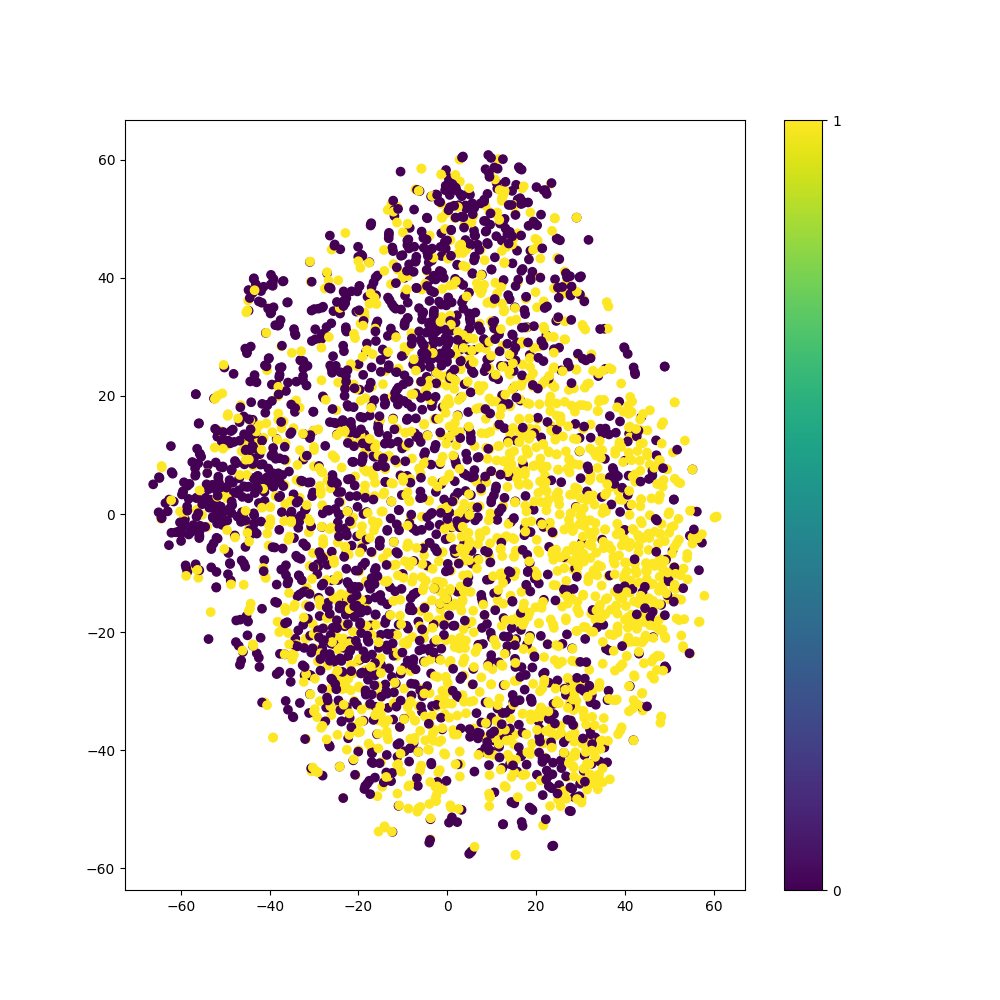
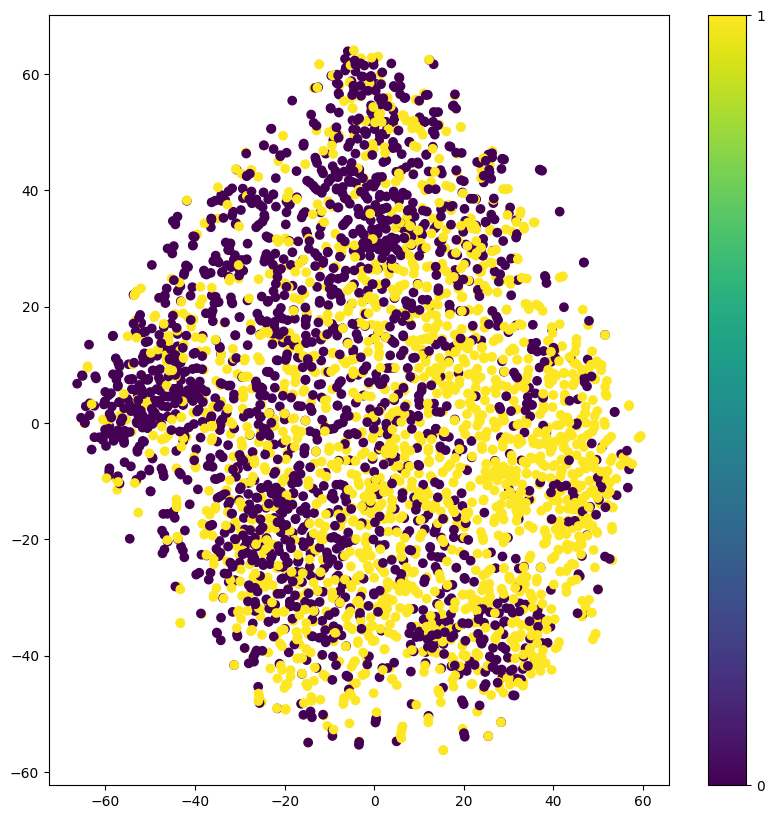
Added the correction to the report

diff --git a/latex/acl2020.tex b/latex/acl2020.tex
@@ -22,7 +22,7 @@
 \usepackage{adjustbox}
 \renewcommand{\UrlFont}{\ttfamily\small}
 \usepackage{microtype}
-
+\usepackage{pdflscape}
 \aclfinalcopy
 
 %\setlength\titlebox{5cm}
@@ -42,8 +42,8 @@
 \begin{document}
 \maketitle
 \begin{abstract}
-In this study, a machine learning approach is developed to detect and measure bias in news articles. The methodology involves fine-tuning a language model specifically for the task of bias classification. To ensure robustness, the model was trained using oversampling methods and it was tested in various random states. The model achieved an amazing precision of 100\% and 94.94\% for SG1 and SG2 datasets respectively, ultimately aiming to minimize False Positive results in classifying biases.\\
-Additionally, the model scored very high F1 scores on both datasets, ensuring the balance between precision and recall measures. The project categorizes bias into three types: distortion, content, and decision-making biases, and discusses their impact on media and democracy. The successful implementation of this project could lead to the development of tools that enable readers and journalists to better understand and check for biases, thereby contributing to a more informed and balanced public discourse.\\
+In this study, a machine learning approach is developed to detect and measure bias in news articles. The methodology involves fine-tuning a language model specifically for the task of bias classification. To ensure robustness, the model was also trained with and without oversampling method and it was tested in various random states. The model achieved a good precision of 84\% and 83\% for SG1 and SG2 datasets, respectively, ultimately aiming to minimize False Positive results in classifying biases.\\
+Additionally, the model scored high F1 scores on both datasets compared to best baselines (63\% on SG1 and 71\% on SG2), ensuring the balance between precision and recall measures. The project categorizes bias into three types: distortion, content, and decision-making biases, and discusses their impact on media and democracy. The successful implementation of this project could lead to the development of tools that enable readers and journalists to better understand and check for biases, thereby contributing to a more informed and balanced public discourse.\\
 The paper provides a comprehensive discussion of the models used, the data collected, the evaluation methods employed, and the results obtained, offering an alternative to automated bias detection in journalism.
 \end{abstract}
 
@@ -51,9 +51,9 @@ The paper provides a comprehensive discussion of the models used, the data colle
 
 In the era of information overload, the ability to discern bias in news articles is more critical than ever. This research project aims to develop an innovative, machine learning-based approach to identify and quantify bias in news articles. The proposed methodology will involve using natural language processing techniques to analyze the linguistic patterns in the text, which often indicate a certain bias. The project contains two stages which are comprised of 1- fine-tuning a language model for the classification task of labeling the news article text and 2- evaluating the model through two methodologies. 
 
-This project, if successful, has significant implications for the field of journalism. It can provide a tool for readers to better understand the biases in the news they consume, and for journalists and editors to more effectively check their work for unintentional bias. Ultimately, this could contribute to a more informed and discerning public discourse.
+This project, if successful, has significant implications for the field of journalism. It can provide a tool for readers to understand better the biases in the news they consume, and for journalists and editors to more effectively check their work for unintentional bias. Ultimately, this could contribute to a more informed and discerning public discourse.
 The next sections of this project are as follows:
-Section two provides the necessary context and theoretical foundation for the study. It includes a literature review highlighting relevant previous work in the field of news bias, particularly the studies involving automated tools for this purpose. It also outlines the motivation for this study and states the research problem and objectives. Section three details the data, preprocessing steps, and the process of fine-tuning the RoBERTa model. It also explains the implementation of a 5-fold cross-validation strategy and the application of oversampling techniques. Section four presents the outcomes of the fine-tuning process and the performance of the model on the validation set. It includes detailed analysis and interpretation of the results, supported by appropriate statistical measures and visualizations. Any patterns, relationships, or trends observed in the results are highlighted and discussed. The final section wraps up the study by summarizing the key findings and their implications. It discusses the strengths and limitations of the current study, and how these findings contribute to the existing body of knowledge.
+Section two provides the necessary context and theoretical foundation for the study. It includes a literature review highlighting relevant previous work in the field of news bias, particularly the studies involving automated tools for this purpose. It also outlines the motivation for this study and states the research problem and objectives. Section three details the data, preprocessing steps, and the process of fine-tuning the RoBERTa model. It also explains the implementation of strategies and the application of oversampling techniques. Section four presents the outcomes of the fine-tuning process and the performance of the model on the validation set. It includes detailed analysis and interpretation of the results, supported by appropriate statistical measures and visualizations. Any patterns, relationships, or trends observed in the results are highlighted and discussed. The final section wraps up the study by summarizing the key findings and their implications. It discusses the strengths and limitations of the current study, and how these findings contribute to the existing body of knowledge.
 \section{Background}
 Bias, whether intentional or unintentional, can significantly influence public opinion and discourse. Understanding the background and implications of this issue is crucial to this research. 
 Essentially Bias can be categorized in many forms~\cite{mastrine_2019_how}, including:
@@ -144,6 +144,10 @@ The Baseline models used here include:
     \item \textbf{LogisticRegression}: Logistic Regression is a statistical model that uses logistic function to model binary variables. published the news article. This method calculates the probability of belonging to a class by learning from input. As a linear model, it is an effective solution to provide a baseline prediction of classes in the model.
 \end{itemize}
 The main methodology in this project follows the implementation as in ~\cite{spinde_2021_neural}. As the classifier RoBERTa~\cite{liu_2019_roberta} was implemented. RoBERTa is a variant of BERT which was trained on more data and for a longer amount of time. This model outperforms BERT and other state-of-the-art models on a variety of natural language processing tasks~\cite{a2020_overview}. The model was trained and evaluated on a Google Colab environment in several epochs through checkpointing. The specific hardware used in this project includes a V100 VRAM 16GB GPU and The default CPU, an Intel Xeon CPU with 2 vCPUs (virtual CPUs).
+
+\subsection{Adding extra layers}
+As a transformer-based model excelling at various NLP tasks, RoBERTa can capture the complex structure of the task. During the implementation of the model, a few additional layers were added to improve the base model's performance. The aim of this step is to improve the capability of the model by improving the identification of local patterns(Conv1D) and capturing long-term dependencies(GRU). The customized model with additional layers can be observed in \ref{fig:Custom_model_arch}.
+
 \subsection{Evaluation}
 The evaluation of the model is a crucial aspect of this project, essentially providing a measure to show the goodness of the model's performance in bias identification tasks. The evaluation is divided into two subsections: 1- Traditional Evaluation Metrics and 2- Interpretive Model Evaluation.
 
@@ -181,41 +185,62 @@ If the anchors identified in these new articles are similar to those found in th
 This section presents the results of the fine-tuning process applied to the RoBERTa language model for the task of media bias classification.
 \subsection{Model Fine-tuning}
 The RoBERTa model was fine-tuned using a train-validation-test approach. This method ensures that each fold of the dataset contains an equal proportion of each targeted class, providing a robust estimate of the model’s performance.
-\subsection{Handling Class Imbalance}
-The two datasets used in this project did not exhibit class imbalance, however, after data splitting it was noted that some classes were under-represented in the data. This could lead to a model that performs well on the majority class but poorly on the minority class.
+\subsection{investigating Class Imbalance}
+The two datasets used in this project did not exhibit class imbalance, This is evident by looking at the differences between the number of classes for dataset SG1 and SG2(54 and 53 respectively).
 
-\begin{figure}[h]
+\begin{figure}[H]
     \centering
     \includegraphics[width=0.9\linewidth]{cm_SG1_cl.png}
-    \caption{confusion matrix for SG1 dataset with RoBERTa[value 1 indicate bias}
+    \caption{confusion matrix for SG1 dataset with RoBERTa after oversampling [value 1 indicate bias]}
     \label{fig:enter-label}
 \end{figure}
 
-To address this issue, an oversampling method was implemented within each fold during the training process. Oversampling involves randomly duplicating examples from the minority class in the training data to balance the class distribution. This ensures that the model is exposed to enough examples of each class during training, improving its ability to generalize to under-represented classes.
+Oversampling involves randomly duplicating examples from the minority class in the training data to balance the class distribution. Theoretically oversampling ensures the model is exposed to enough examples of each class during training, improving its ability to generalize to under-represented classes. \\
+However, due to the small difference in classes, oversampling did not manage to improve the classification and, at best managed to achieve a result similar to the original model. For the purpose of this comparison, some results are shown in \ref{tab:f1_SG_datasets}.
 
-After performing oversampling(please refer to Figure 3), the fine-tuned RoBERTa model was able to learn from a balanced representation of each class, leading to a more robust and reliable performance in the media bias classification task.
 \subsection{Traditional Evaluation Metrics}
 Considering the difference in the number of sentences within each dataset, they are analyzed separately, here is a brief summary of results from the SG1 dataset:
 \begin{itemize}
-    \item \textbf{Majority Class classifier}: It always predicts class 0. That’s why the recall for class 0 is 1.00 (it correctly identifies all instances of class 0), but the recall for class 1 is 0.00 (it fails to identify any instances of class 1). The overall accuracy of 0.54 indicates that 54\% of SG1 data belong to class 0.
-    \item \textbf{Random Guesser}:  The precision, recall, and F1-score are roughly equal for both classes, indicating that it’s equally likely to guess either class. The overall accuracy of 0.53 is close to 0.5, as you’d expect from random guessing. 
-    \item \textbf{LogisticRegression}: This model has a higher precision, recall, and F1-score for both classes compared to the other two classifiers, indicating that it is doing a better job of identifying both classes. The overall accuracy of 0.63 means it is correct about 63\% of the time.
+    \item \textbf{Majority Class classifier}: It always predicts class 0. That’s why the recall for class 0 is 1.00 (it correctly identifies all instances of class 0), but the recall for class 1 is 0.00 (it fails to identify any instances of class 1). The overall accuracy of 0.5387 indicates that approximately 54\% of SG1 data belong to class 0.
+    \item \textbf{Random Guesser}:  The precision, recall, and F1-score are roughly equal for both classes, indicating that it’s equally likely to guess either class. The overall accuracy of 0.5097(rounded at 4 digits) is close to 0.5, as you’d expect from random guessing. 
+    \item \textbf{LogisticRegression}: This model has higher precision, recall, and F1-score for both classes compared to the other two classifiers, indicating that it is doing a better job of identifying both classes. The overall accuracy of 0.6323 means it is correct about 63\% of the time.
 \end{itemize}
-\begin{table*}[h]
-\caption{Baselines macro avg results across datasets}
+\begin{table}[h]
 \small
 \centering
-\begin{tabular}{llllll}
-{\color[HTML]{000000} Model name} & {\color[HTML]{000000} Accuracy} & {\color[HTML]{000000} Precision} & {\color[HTML]{000000} Recall} & F1   & Dataset \\
-Majority Class                                           & 0.54                                                   & 0.27                                                    & 0.50                                                 & 0.35 & SG1     \\
-Random Guesser                                           & 0.53                                                   & 0.53                                                    & 0.53                                                 & 0.53 & SG1     \\
-Logistic Regression                                      & 0.63                                                   & 0.63                                                    & 0.63                                                 & 0.63 & SG1     \\
-Majority Class                                           & 0.51                                                   & 0.26                                                    & 0.50                                                 & 0.34 & SG2     \\
-Random Guesser                                           & 0.53                                                   & 0.53                                                    & 0.53                                                 & 0.53 & SG2     \\
-Logistic Regression                                      & 0.71                                                   & 0.71                                                    & 0.71                                                 & 0.71 & SG2    
+\caption{Comparison of weighted macro F1-Score for the two datasets and the corresponding models}
+\label{tab:f1_SG_datasets}
+\begin{tabular}{llll}
+\hline
+\multicolumn{1}{|l|}{\textbf{Dataset}} & \multicolumn{1}{l|}{\textbf{Oversampling}} & \multicolumn{1}{l|}{\textbf{Custom Model}} & \multicolumn{1}{l|}{\textbf{F1 Score}} \\ \hline
+SG1                                    & False                                      & True                                       & 0.8187                                 \\
+SG1                                    & False                                      & False                                      & 0.8049                                 \\
+SG1                                    & True                                       & True                                       & 0.8030                                 \\
+SG1                                    & True                                       & False                                      & 0.7935                                 \\
+SG2                                    & False                                      & True                                       & 0.8081                                 \\
+SG2                                    & False                                      & False                                      & 0.8148                                 \\
+SG2                                    & True                                       & True                                       & 0.7952                                 \\
+SG2                                    & True                                       & False                                      & 0.7971                                
 \end{tabular}
-\end{table*}
-In these numbers, macro avg was selected as the default averaging scheme for the metrics(the full result is present in {'finetuning.ipynb'}). Please note that the results of these algorithms do not necessarily indicate the distribution of labels in the corresponding dataset, this is mainly due to randomized train/test split before applying the models.
+\end{table}
+\begin{table}[H]
+\centering
+\caption{Baselines weighted average results across datasets}
+\label{tab:wei_SG_score}
+\resizebox{\linewidth}{!}{
+\begin{tabular}{llllll}
+\hline
+\multicolumn{1}{|l|}{\textbf{Model name}} & \multicolumn{1}{l|}{\textbf{Accuracy}} & \multicolumn{1}{l|}{\textbf{Precision}} & \multicolumn{1}{l|}{\textbf{Recall}} & \multicolumn{1}{l|}{\textbf{F1}} & \multicolumn{1}{l|}{\textbf{Dataset}} \\ \hline
+Majority Class                            & 0.5387                                 & 0.2902                                  & 0.5387                               & 0.3772                           & SG1                                   \\
+Random Guesser                            & 0.5097                                 & 0.5742                                  & 0.5097                               & 0.5102                           & SG1                                   \\
+Logistic Regression                       & 0.6323                                 & 0.6346                                  & 0.6323                               & 0.6328                           & SG1                                   \\
+Majority Class                            & 0.5116                                 & 0.2617                                  & 0.5116                               & 0.3463                           & SG2                                   \\
+Random Guesser                            & 0.5143                                 & 0.5143                                  & 0.5143                               & 0.5143                           & SG2                                   \\
+Logistic Regression                       & 0.7075                                 & 0.7082                                  & 0.7075                               & 0.7075                           & SG2                                  
+\end{tabular}
+}
+\end{table}
+In these numbers, weighted macro avg was selected as the default averaging scheme for the metrics(the full result is present in {'finetuning.ipynb'}). Please note that the results of these algorithms do not necessarily indicate the distribution of labels in the corresponding dataset, this is mainly due to randomized train/test split before applying the models.
 
 \begin{figure}
     \centering
@@ -224,8 +249,8 @@ In these numbers, macro avg was selected as the default averaging scheme for the
     \label{fig:enter-label}
 \end{figure}
 The metrics from the two datasets show a consistent pattern. Additionally, according to logistic regression results it can be observed that the increase in the number of data in each group has a substantial effect on learning from data.
-On the other hand, the language model shows a very promising result for both SG1 and SG2 datasets. Regarding the SG1 dataset, the model exhibits an accuracy rate of 0.97 which is significantly better all the baselines, similarly, a recall of 0.94 suggests that the model identifies only 94\% of all True positive instances.\\
-To better understand the dataset, using the $bert-tiny$ model, the embeddings was extracted and visualized through t-SNE. Figure ~\ref{fig:t-sne_logic} and Figure ~\ref{fig:t-sne_RoBERTa} show the assigned labels to sentences by Logistic regression and RoBERTa model respectively.
+On the other hand, the language model shows a very promising result for both SG1 and SG2 datasets. Regarding the SG1 dataset and the best rates, the model exhibits an accuracy rate of 0.82 which is significantly better than all the baselines, similarly, a recall of 0.78 in the best SG2 model suggests that the model identifies 78\% of all True positive instances.\\
+To better understand the dataset, using the $bert-tiny$ model, the embeddings were extracted and visualized through t-SNE. Figure ~\ref{fig:t-sne_logic} and Figure ~\ref{fig:t-sne_RoBERTa} show the assigned labels to sentences by Logistic regression and RoBERTa model respectively.
 \begin{figure}[H]
     \centering
     \includegraphics[width=0.9\linewidth]{Labels_Logistic_tsne_plot.png}
@@ -254,16 +279,16 @@ And if we divide the data into five regions we can see the distribution of miscl
 \end{figure}
 According to table \ref{tab:mscount} we can see that region 5 has the least misclassified items, ten sentences from region are:
 \begin{enumerate}
-  \item Sentence 1(TrueL 1): A tear slipped down the cheek of Ghanaian-German artist Zohra Opoku ...
-  \item Sentence 2(TrueL 0): After all, America’s commander-in-chief does have the authority, at his sole discretion ...
-  \item Sentence 3(TrueL 1): As the president spoke about doing “a lot” to address ...
-  \item Sentence 4(TrueL 1): As the senators’ letter pointed out this week ...
-  \item Sentence 5(TrueL 0): Authoritarianism experts who worried about Trump’s tendencies during ...
-  \item Sentence 6(TrueL 1): Collins, often described as a “moderate,” is not a far-right wingnut ...
-  \item Sentence 7(TrueL 1): Despite encouraging and supporting unrest, Ocasio-Cortez simultaneously advises ...
-  \item Sentence 8(TrueL 1): During July’s debate, Sanders again stated that people will “pay more in taxes” but ...
-  \item Sentence 9(TrueL 0): Gwyneth Paltrow’s anti-vaxxer ally comes under fire ...
-  \item Sentence 10(TrueL 1): Harry Potter creator J.K. Rowling released a lengthy essay.
+  \item Sentence 1(TrueL 1): A young, slender woman with a sign reading “End All Violence” stood at the doors and pleaded with the looters to stop.
+  \item Sentence 2(TrueL 1): As Congress begins debating the Equality Act, the Heritage Foundation warns that if the bill becomes ...
+  \item Sentence 3(TrueL 1): Bloomberg also supports passage of the Equality Act, which would bar governments and sports organizations from recognizing the biological/physiological difference between ...
+  \item Sentence 4(TrueL 0): Democrats and Republicans have long conflated “policing” with “public safety,” ...
+  \item Sentence 5(TrueL 0): Fake Political Media Eager Partners in Joe Biden’s Fake Press Conference
+  \item Sentence 6(TrueL 0): Fox News has gone so deep into white nationalism that Donald Trump now believes it’s how he’ll win in 2020
+  \item Sentence 7(TrueL 0): George Soros does not “own” ANTIFA or Black Lives Matter.
+  \item Sentence 8(TrueL 0): Graffiti alleging that the ‘MET POLICE SERVE TRUMP’ was also seen ...
+  \item Sentence 9(TrueL 0): In Haiti, President Bill Clinton admitted—after he left office—to a “devil’s bargain” on rice tariffs ...
+  \item Sentence 10(TrueL 1): In the dominant political fight in D.C., Donald Trump wants a giant wall along the U.S./Mexico border.
 \end{enumerate}
 
 \begin{table}[h]
@@ -274,49 +299,58 @@ According to table \ref{tab:mscount} we can see that region 5 has the least misc
 \begin{tabular}{cccc}
 \hline
 \multicolumn{1}{|c|}{\textbf{Region}} & \multicolumn{1}{l|}{\textbf{X axis range}} & \multicolumn{1}{l|}{\textbf{Y axis range}} & \multicolumn{1}{l|}{\textbf{Misclassification count}} \\ \hline
-1                                     & {[}4.60,61.97{]}                           & {[}-24.17,28.35{]}                         & 40                                                    \\
-2                                     & {[}-61.18,-9.51{]}                         & {[}-20.92,39.71{]}                         & 47                                                    \\
-3                                     & {[}-27.28,38.75{]}                         & {[}3.61,61.53{]}                           & 47                                                    \\
-4                                     & {[}-44.85,7.96{]}                          & {[}-5360,6.24{]}                           & 38                                                    \\
-5                                     & {[}-1.11,50.17{]}                          & {[}-54.06,-11.88{]}                        & 26                                                   
+1                                     & {[}3.01,59.51{]}                           & {[}-25.33,33.38{]}                         & 48                                                    \\
+2                                     & {[}-49.55,7.97{]}                          & {[}-56.19,7.68{]}                          & 54                                                    \\
+3                                     & {[}-63.08,-11.57{]}                        & {[}-24.42,43.03{]}                         & 38                                                    \\
+4                                     & {[}-5.64,51.42{]}                          & {[}-57.66,-11.89{]}                        & 31                                                    \\
+5                                     & {[}-29.60,37.11{]}                         & {[}4.86,63.54{]}                           & 74                                                   
 \end{tabular}
 \end{adjustbox}
 \end{table}
 \begin{table*}[h]
-\caption{language model performance metrics}
 \centering
+\caption{language model performance metrics according to the best models per datasets(rounded to two digits)}
+\label{tab:model_metric}
 \begin{tabular}{ccccccc}
-Loss & \multicolumn{1}{l}{Accuracy} & \multicolumn{1}{l}{Precision} & \multicolumn{1}{l}{Recall} & \multicolumn{1}{l}{Micro F1} & \multicolumn{1}{l}{Weighted F1} & \multicolumn{1}{l}{Dataset} \\
-0.08 & 0.97                         & 1                             & 0.94                       & 0.97                         & 0.97                            & SG1                         \\
-0.19 & 0.94                         & 0.95                          & 0.92                       & 0.94                         & 0.94                            & SG2                        
+\hline
+\multicolumn{1}{|c|}{\textbf{Loss}} & \multicolumn{1}{l|}{\textbf{Accuracy}} & \multicolumn{1}{l|}{\textbf{Precision}} & \multicolumn{1}{l|}{\textbf{Recall}} & \multicolumn{1}{l|}{\textbf{Micro F1}} & \multicolumn{1}{l|}{\textbf{Weighted F1}} & \multicolumn{1}{l|}{\textbf{Dataset}} \\ \hline
+1.29                                & 0.82                                   & 0.84                                    & 0.77                                 & 0.82                                   & 0.82                                      & SG1                                   \\
+1.17                                & 0.81                                   & 0.83                                    & 0.78                                 & 0.81                                   & 0.81                                      & SG2                                  
 \end{tabular}
 \end{table*}
 In this context we need to improve the rate of correctly predicted bias labels, therefore we have to maximize accuracy and precision to enhance the overall correctness and lower the false positive rate.\\
 
 
-
-
 \subsection{Interpretative Model Evaluation}
-In this section, the model is evaluated using a variety of text among the extracted data from news articles. Here are six chosen examples from the SG2 dataset that demonstrate the model capabilities:
+In this section, the model is evaluated using a variety of text among the extracted data from news articles. Here are six chosen examples from the SG2 dataset and others extracted from news articles that demonstrate the model's capabilities:
 \begin{itemize}
-    \item 'Civil rights activists across the United States for years have called for scaling back traditional policing, and the efforts have gained momentum...': This is an instance of Non-biased text, the model classifies it as Non-Biased, Anchors method chose 'protests', 'called', and 'gained' as the indicator for this decision
+    \item 'Civil rights activists across the United States for years have called for scaling back traditional policing, and the efforts have gained momentum...': This is an instance of Non-biased text, the model classifies it as Non-Biased, Anchors method chose 'called', 'protests', 'activists', 'death', 'scaling', and 'momentum' as the indicator for this decision
     \item 'An attorney for President Donald Trump on Friday blasted U.S. House Democrats’ request for six years of Trump’s tax returns as “a misguided attempt” to politicize...': This is an instance of Biased text. The experts identified the keyword 'blasted' as the indicator for bias, RoBERTa classified this sentence as Biased, and based on Anchors the decision is also based on the 'blasted' keyword.
-    \item 'Japan has reported about 1300 deaths from COVID-19 but new cases in Tokyo have fallen in the last few weeks': This instance was extracted from a news article. Based on the model prediction this is Non-Biased and the indicator is the keyword 'reported'. This is likely true since it is a factual text and presents information about the trend of new cases in Japan.
-    \item 'The idea of a "rigged" economy that both benefits and is shaped by the rich and powerful was a popular theme in 2016 and is sure to play a big role again this cycle...': This is a second instance extracted from news articles. The model predicted Non-Biased with Anchors indicators of {powerful, popular, emphasizing, big, several, idea, shaped, candidates, campaign, economy, rich, sure, rigged, ...}. After looking at the corresponding text, it is most likely a False Negative. This sentence offers a subjective viewpoint and uses the words 'Rigged', 'Rich', and 'powerful' to imply a negative view of the corresponding groups.
+    \item 'Japan has reported about 1300 deaths from COVID-19 but new cases in Tokyo have fallen in the last few weeks': This instance was extracted from a news article. Based on the model prediction this is Non-Biased and the indicator are the keywords 'fallen', 'few', and 'last'. This is likely true since it is a factual text and presents information about the trend of new cases in Japan.
+    \item 'The idea of a "rigged" economy that both benefits and is shaped by the rich and powerful was a popular theme in 2016 and is sure to play a big role again this cycle...': This is a second instance extracted from news articles. The model predicted Non-Biased with Anchors indicators of {big, idea, rich, theme, powerful, rigged, play, popular, campaign, ...}. After looking at the corresponding text, it is most likely a False Negative. This sentence offers a subjective viewpoint and uses the words 'Rigged', 'Rich', and 'powerful' to imply a negative view of the corresponding groups.
     \item 'As you know, this is a very high priority for the president, ending surprise medical bills': The model predicts this instance as Non-Biased and the anchor indicators are {very, surprise, medical, ...}. This is factual information, so it is True Positive.
-    \item 'The findings suggest childhood vaccination efforts nearly ground to a halt between March 13 — when the national emergency was declared — and April 19': The model predicted this text as Non-biased with the Anchors keyword of 'childhood'. This proved to be a True sentence after a web search.
+    \item 'The findings suggest childhood vaccination efforts nearly ground to a halt between March 13 — when the national emergency was declared — and April 19': The model predicted this text as Non-biased with the Anchors keywords of 'halt', 'efforts', 'declared', 'childhood', 'between'. This proved to be a True sentence after a web search.
 \end{itemize}
 \section{Conclusion and Discussion}
 This project aimed to classify media bias in news articles using a fine-tuned RoBERTa model and compare its performance with three baseline models. The results demonstrated the effectiveness of the RoBERTa model in this task greatly. As expected, the model performed better on the SG1 dataset due to a smaller overall amount of annotated sentences.
 
 In addition to traditional evaluation metrics, an interpretative evaluation strategy was employed to provide a deeper understanding of the model’s decision-making process. The Anchors method was used to identify the words that the model relied on most heavily to make its predictions, providing insight into what the model had learned and how it was making its decisions.
 
-Regarding the limitations of this work, firstly, despite the effectiveness of RoBERTa model in bias identification, the model the training process was computationally expensive due to the complexity of the model, potentially limiting its accessibility.\\
-Secondly, for the sampling step of anchor $en_core_web_md$ model from spaCy was used. Larger models(such as $en_core_web_lg$) have more parameters and potentially richer word vectors, which might lead to different perturbations being generated during the sampling process, this could be a potential direction for future improvements.\\
-Lastly, the original labels annotated by experts was categorized to 'Biased', 'Non-Biased', and 'No agreement'. The third class indicates uncertainty or lack of consensus among experts, which could introduce additional noise; Therefore to improve consistency the labels from the third class were removed before the finetuning process. A more sophisticated approach would be to employ consensus-building techniques among experts to resolve disagreements before labeling.\\
+Regarding the limitations of this work, firstly, despite the effectiveness of the RoBERTa model in bias identification, the model the training process was computationally expensive due to the complexity of the model, potentially limiting its accessibility.\\
+Secondly, for the sampling step of anchor, $en\_core\_web\_md$ model from spaCy was used. Larger models(such as $en\_core\_web\_lg$) have more parameters and potentially richer word vectors, which might lead to different perturbations being generated during the sampling process, this could be a potential direction for future improvements.\\
+Lastly, the original labels annotated by experts were categorized as 'Biased', 'Non-Biased', and 'No agreement'. The third class indicates uncertainty or lack of consensus among experts, which could introduce additional noise; Therefore to improve consistency the labels from the third class were removed before the finetuning process. A more sophisticated approach would be to employ consensus-building techniques among experts to resolve disagreements before labeling.\\
 Additionally, another research direction for this project would be to look more into the interpretation of the model's behavior including the use of other model-agnostic methods.
 
-Overall, this project demonstrates the potential of transformer-based models like RoBERTa in the task of media bias classification. It also highlights the importance of interpretability in machine learning, showing how methods like Anchors can prove valuable. The provided mode can help readers and journalists understand and check for biases, contributing to more informed public discourse.
+Overall, this project demonstrates the potential of transformer-based models like RoBERTa in media bias classification. It also highlights the importance of interpretability in machine learning, showing how methods like Anchors can prove valuable. The provided mode can help readers and journalists understand and check for biases, contributing to more informed public discourse.
+\newpage
+\begin{landscape}
+    \begin{figure}[H]
+        \centering
+        \includegraphics[width=1\linewidth]{external_nn.png}
+        \caption{Custom model with additional layers}
+        \label{fig:Custom_model_arch}
+    \end{figure}
+\end{landscape}
 \newpage
 \bibliography{anthology,acl2020}
 \bibliographystyle{acl_natbib}
